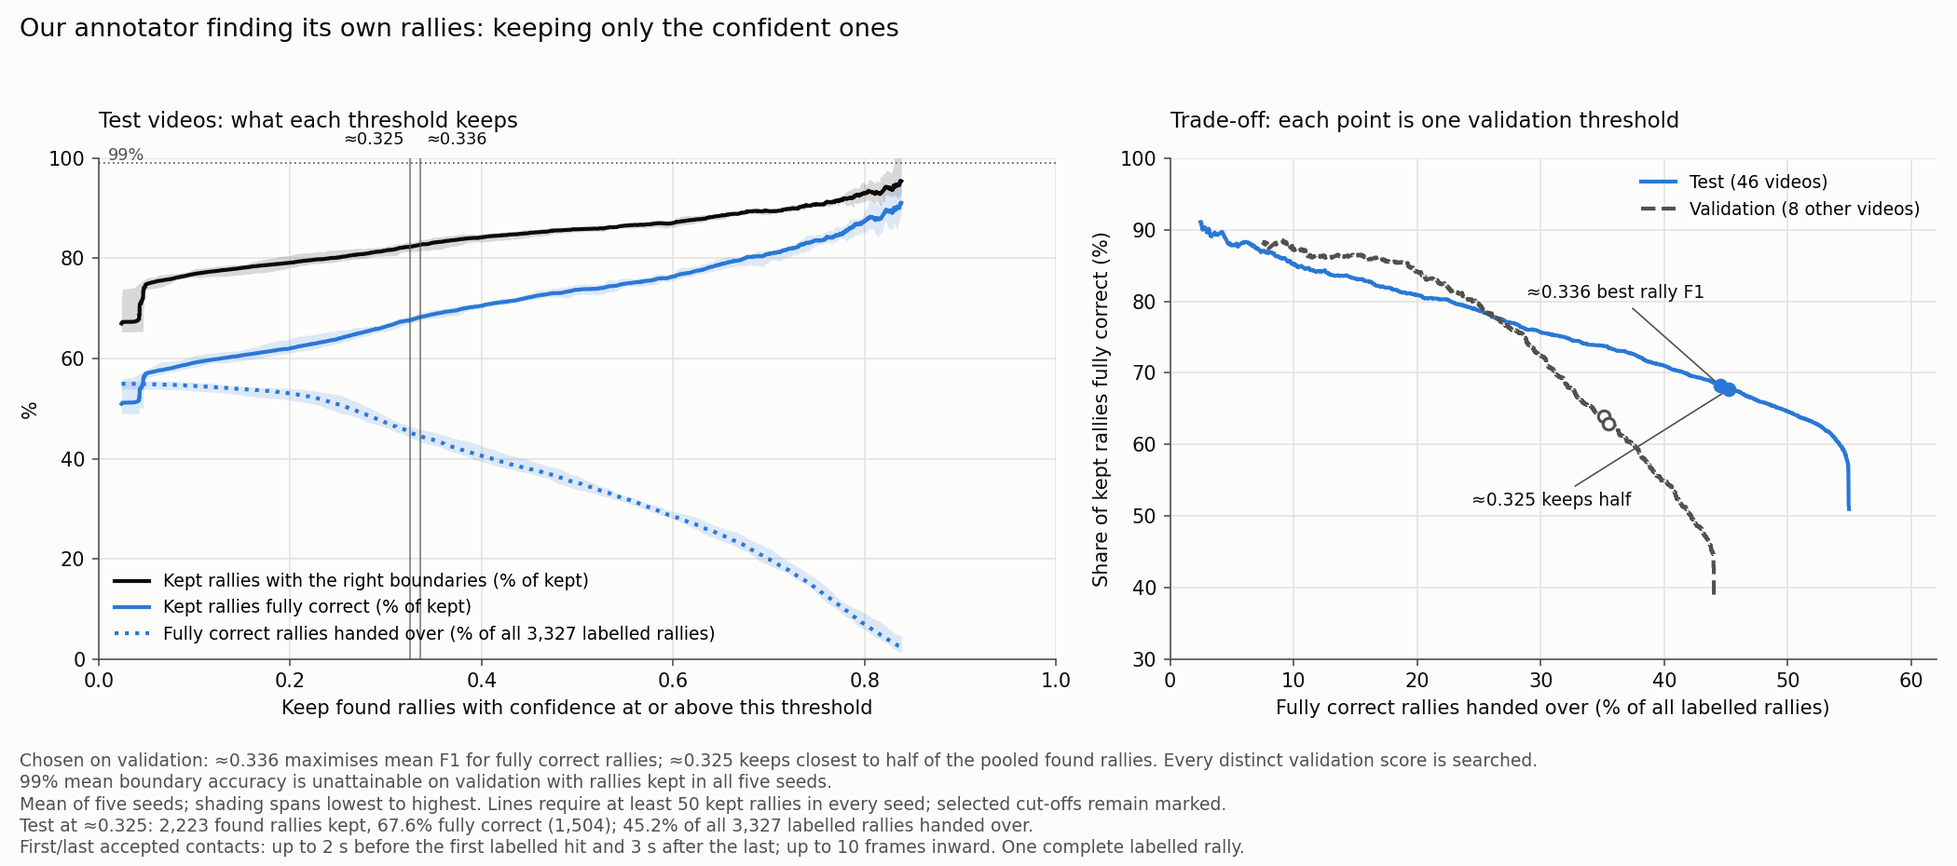
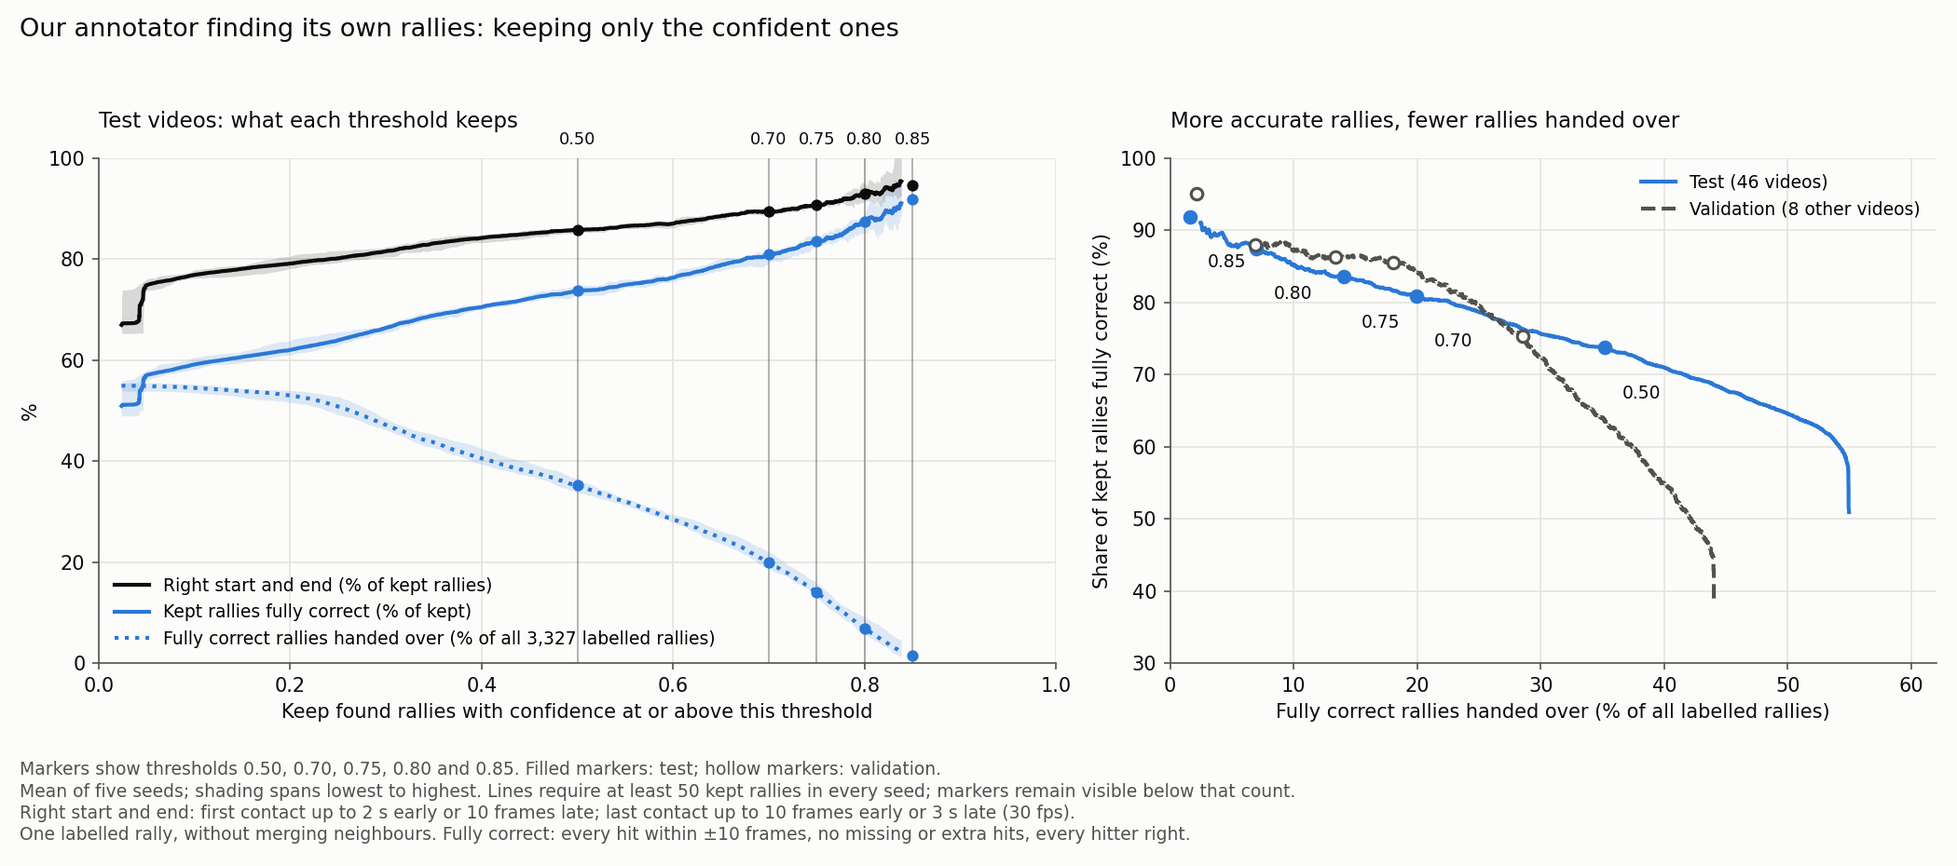
Make the confidence trade-off clearer in the benchmark report

diff --git a/experiments/annotator/monotrack_benchmark/writeup_scripts/make_figures.py b/experiments/annotator/monotrack_benchmark/writeup_scripts/make_figures.py
@@ -9,6 +9,7 @@ from __future__ import annotations
 import argparse
 import gzip
 import json
+import sys
 from dataclasses import dataclass
 from pathlib import Path
 
@@ -21,6 +22,12 @@ import pandas as pd
 from matplotlib.legend import Legend
 from matplotlib.legend_handler import HandlerTuple
 from matplotlib.lines import Line2D
+
+sys.path.insert(0, str(Path(__file__).resolve().parents[4]))
+
+from experiments.annotator.monotrack_benchmark.writeup_scripts.confidence_cutoffs import (
+    curve,
+)
 
 MONOTRACK_COLOUR = '#eb6834'
 ANNOTATOR_COLOUR = '#2a78d6'
@@ -298,15 +305,7 @@ def ladder_figure(summary: dict, out: Path, boundary_policy: dict[str, float | N
     plt.close(figure)
 
 
-CUTOFF_LABELS = {
-    'balanced': 'best rally F1',
-    'keep_half': 'keeps half',
-    'boundaries_99': '99% validation target',
-}
-# Label offsets in points, placed to keep each label clear of both curves.
-CUTOFF_LABEL_OFFSETS = {'balanced': (-8, 45), 'keep_half': (-50, -60), 'boundaries_99': (20, 8)}
-# Alignment of each cut-off's number above the left panel, so close cut-offs' numbers sit apart.
-CUTOFF_TOP_LABEL_ALIGN = {'balanced': 'left', 'keep_half': 'right', 'boundaries_99': 'center'}
+ILLUSTRATIVE_THRESHOLDS = (0.50, 0.70, 0.75, 0.80, 0.85)
 
 
 def seed_band(curves: pd.DataFrame, column: str) -> tuple[np.ndarray, np.ndarray, np.ndarray, np.ndarray]:
@@ -316,12 +315,6 @@ def seed_band(curves: pd.DataFrame, column: str) -> tuple[np.ndarray, np.ndarray
     # Above a high cut-off only a handful of rallies remain, so shares there are noise.
     table = table.where(kept.min(axis=1) >= MIN_KEPT, axis=0)
     return table.index.to_numpy(), table.mean(axis=1).to_numpy(), table.min(axis=1).to_numpy(), table.max(axis=1).to_numpy()
-
-
-def cutoff_text(value: float) -> str:
-    """Keep labels short and mark any displayed rounding explicitly."""
-    label = f'{value:.3f}'
-    return label if float(label) == value else f'≈{label}'
 
 
 def boundary_note(policy: dict[str, float | None]) -> str:
@@ -334,10 +327,10 @@ def boundary_note(policy: dict[str, float | None]) -> str:
 
 
 def cutoff_row(curves: pd.DataFrame, threshold: float) -> pd.Series:
-    """Read the actual selected score, keeping neighbouring attainable scores separate."""
+    """Read the exact threshold, keeping neighbouring scores separate."""
     selected = curves[curves['threshold'] == threshold]
     if selected.empty:
-        raise ValueError(f'selected validation cut-off {threshold!r} is absent from the curve')
+        raise ValueError(f'threshold {threshold!r} is absent from the curve')
     return selected.mean(numeric_only=True)
 
 
@@ -347,13 +340,19 @@ def confidence_figure(data: Path, out: Path) -> None:
     validation = pd.read_csv(data / 'validation_confidence_curve.csv.gz', float_precision='round_trip')
     with gzip.open(data / 'confidence_cutoffs.json.gz', 'rt') as stream:
         selection = json.load(stream)
-    cutoffs = selection['cutoffs']
-    available = {name: value for name, value in cutoffs.items() if value is not None}
+    test_found = []
+    for seed in SEEDS:
+        found = pd.read_csv(data / f'found_rallies_annotator_discovery_seed{seed}.csv.gz', float_precision='round_trip')
+        test_found.append(found.assign(seed=seed))
+    validation_found = pd.read_csv(data / 'validation_found_rallies.csv.gz', float_precision='round_trip')
+    # Round thresholds need exact counts; saved curves use distinct validation scores.
+    test_points = curve(pd.concat(test_found, ignore_index=True), 3327, ILLUSTRATIVE_THRESHOLDS)
+    validation_points = curve(validation_found, selection['validation_rallies'], ILLUSTRATIVE_THRESHOLDS)
     figure, (left, right) = plt.subplots(1, 2, figsize=(14, 6.2), facecolor=SURFACE,
                                          gridspec_kw={'width_ratios': (1.25, 1)})
     style_axes(left, 'both')
     lines = (
-        ('boundaries_right_share', 'Kept rallies with the right boundaries (% of kept)', TEXT, '-'),
+        ('boundaries_right_share', 'Right start and end (% of kept rallies)', TEXT, '-'),
         ('fully_correct_share', 'Kept rallies fully correct (% of kept)', ANNOTATOR_COLOUR, '-'),
         ('coverage', 'Fully correct rallies handed over (% of all 3,327 labelled rallies)', ANNOTATOR_COLOUR, ':'),
     )
@@ -361,14 +360,13 @@ def confidence_figure(data: Path, out: Path) -> None:
         thresholds, mean, low, high = seed_band(test, column)
         left.fill_between(thresholds, low, high, color=colour, alpha=0.15, linewidth=0)
         left.plot(thresholds, mean, color=colour, linestyle=style, linewidth=2, label=label)
-    left.axhline(99, color=MUTED, linewidth=0.8, linestyle=(0, (1, 2)))
-    left.text(0.01, 99.6, '99%', fontsize=8.5, color=MUTED)
-    for name, value in available.items():
-        left.axvline(value, color=MUTED, linewidth=1, linestyle='-', alpha=0.6)
-        align = 'right' if value > 0.9 else 'left' if value < 0.1 else CUTOFF_TOP_LABEL_ALIGN[name]
-        offset = 3 if align == 'left' else -3 if align == 'right' else 0
-        left.annotate(cutoff_text(value), (value, 100), xytext=(offset, 5), textcoords='offset points',
-                      ha=align, va='bottom', fontsize=8.5, color=TEXT)
+    for threshold in ILLUSTRATIVE_THRESHOLDS:
+        left.axvline(threshold, color=MUTED, linewidth=0.8, alpha=0.5)
+        left.annotate(f'{threshold:.2f}', (threshold, 100), xytext=(0, 5), textcoords='offset points',
+                      ha='center', va='bottom', fontsize=8.5, color=TEXT)
+        row = cutoff_row(test_points, threshold)
+        for column, _label, colour, _style in lines:
+            left.scatter(threshold, row[column], s=24, color=colour, zorder=4)
     left.set_xlim(0, 1)
     left.set_ylim(0, 100)
     left.set_xlabel('Keep found rallies with confidence at or above this threshold', color=TEXT)
@@ -379,56 +377,41 @@ def confidence_figure(data: Path, out: Path) -> None:
     style_axes(right, 'both')
     coverage_max = max(test['coverage'].max(), validation['coverage'].max())
     coverage_limit = min(100, max(62, coverage_max + 3))
-    for curves, label, colour, style in ((test, 'Test (46 videos)', ANNOTATOR_COLOUR, '-'),
-                                         (validation, 'Validation (8 other videos)', MUTED, '--')):
+    for curves, points, label, colour, style in (
+        (test, test_points, 'Test (46 videos)', ANNOTATOR_COLOUR, '-'),
+        (validation, validation_points, 'Validation (8 other videos)', MUTED, '--'),
+    ):
         _thresholds, coverage, _low, _high = seed_band(curves, 'coverage')
         _thresholds, share, _low, _high = seed_band(curves, 'fully_correct_share')
         right.plot(coverage, share, color=colour, linestyle=style, linewidth=2, label=label)
-        for name, value in available.items():
-            row = cutoff_row(curves, value)
-            # Validation points are hollow; cut-off labels belong to filled test points.
-            if pd.isna(row['fully_correct_share']):
-                continue
+        for threshold in ILLUSTRATIVE_THRESHOLDS:
+            row = cutoff_row(points, threshold)
+            # Validation points are hollow; labels belong to filled test points.
             right.scatter(row['coverage'], row['fully_correct_share'], s=36, zorder=4, linewidth=1.5,
                           color=colour if curves is test else SURFACE, edgecolor=colour)
             if curves is test:
-                offset_x, offset_y = CUTOFF_LABEL_OFFSETS[name]
-                align = 'right' if offset_x < 0 or row['coverage'] > 0.7 * coverage_limit else 'left'
-                offset_x = -abs(offset_x) if align == 'right' else offset_x
-                right.annotate(f'{cutoff_text(value)} {CUTOFF_LABELS[name]}', (row['coverage'], row['fully_correct_share']),
-                               xytext=(offset_x, offset_y), ha=align, textcoords='offset points', fontsize=9, color=TEXT,
-                               arrowprops={'arrowstyle': '-', 'color': MUTED, 'lw': 0.8})
+                right.annotate(f'{threshold:.2f}', (row['coverage'], row['fully_correct_share']),
+                               xytext=(9, -26), textcoords='offset points', fontsize=9, color=TEXT)
     precision_min = min(test['fully_correct_share'].min(), validation['fully_correct_share'].min())
     right.set_xlim(0, coverage_limit)
     right.set_ylim(max(0, min(30, precision_min - 3)), 100)
     right.set_xlabel('Fully correct rallies handed over (% of all labelled rallies)', color=TEXT)
     right.set_ylabel('Share of kept rallies fully correct (%)', color=TEXT)
-    right.set_title('Trade-off: each point is one validation threshold', fontsize=11, color=TEXT, loc='left', pad=16)
+    right.set_title('More accurate rallies, fewer rallies handed over', fontsize=11, color=TEXT, loc='left', pad=16)
     right.legend(loc='upper right', frameon=False, fontsize=9)
     figure.suptitle('Our annotator finding its own rallies: keeping only the confident ones', fontsize=13, color=TEXT,
                     x=0.01, ha='left')
-    boundary_cutoff = cutoffs['boundaries_99']
-    if boundary_cutoff is None:
-        target_note = '99% mean boundary accuracy is unattainable on validation with rallies kept in all five seeds.'
-    else:
-        boundary_validation = selection['validation']['boundaries_99']
-        target_note = (f'{cutoff_text(boundary_cutoff)} is the lowest cut-off reaching 99% mean boundary accuracy; '
-                       f'validation retains {boundary_validation["kept_min"]:.0f}–'
-                       f'{boundary_validation["kept_max"]:.0f} rallies per seed.')
-    figure.text(0.01, 0.115, f'Chosen on validation: {cutoff_text(cutoffs["balanced"])} maximises mean F1 for fully correct rallies; '
-                f'{cutoff_text(cutoffs["keep_half"])} keeps closest to half of the pooled found rallies. '
-                'Every distinct validation score is searched.', fontsize=9, color=MUTED)
-    figure.text(0.01, 0.09, target_note, fontsize=9, color=MUTED)
-    figure.text(0.01, 0.065, f'Mean of five seeds; shading spans lowest to highest. Lines require at least '
-                f'{MIN_KEPT} kept rallies in every seed; selected cut-offs remain marked.', fontsize=9, color=MUTED)
-    example = cutoff_row(test, cutoffs['keep_half'])
-    share = example['fully_correct_share']
-    precision_text = f'{share:.1f}%' if pd.notna(share) else 'undefined (no rallies kept)'
-    figure.text(0.01, 0.04, f'Test at {cutoff_text(cutoffs["keep_half"])}: {example["kept"]:,.0f} found rallies kept, '
-                f'{precision_text} fully correct ({example["fully_correct_kept"]:,.0f}); '
-                f'{example["coverage"]:.1f}% of all 3,327 labelled rallies handed over.', fontsize=9, color=MUTED)
-    figure.text(0.01, 0.015, boundary_note(selection['boundary_policy']), fontsize=9, color=MUTED)
-    figure.tight_layout(rect=(0, 0.145, 1, 0.95))
+    figure.text(0.01, 0.105, 'Markers show thresholds 0.50, 0.70, 0.75, 0.80 and 0.85. '
+                'Filled markers: test; hollow markers: validation.', fontsize=9, color=MUTED)
+    figure.text(0.01, 0.08, f'Mean of five seeds; shading spans lowest to highest. Lines require at least '
+                f'{MIN_KEPT} kept rallies in every seed; markers remain visible below that count.', fontsize=9, color=MUTED)
+    before = selection['boundary_policy']['before_seconds']
+    after = selection['boundary_policy']['after_seconds']
+    figure.text(0.01, 0.055, f'Right start and end: first contact up to {before:g} s early or 10 frames late; '
+                f'last contact up to 10 frames early or {after:g} s late (30 fps).', fontsize=9, color=MUTED)
+    figure.text(0.01, 0.03, 'One labelled rally, without merging neighbours. Fully correct: every hit within ±10 frames, '
+                'no missing or extra hits, every hitter right.', fontsize=9, color=MUTED)
+    figure.tight_layout(rect=(0, 0.14, 1, 0.95))
     figure.savefig(out / 'fig6_confidence.png', dpi=150, facecolor=SURFACE)
     plt.close(figure)
 

diff --git a/experiments/annotator/monotrack_benchmark/annotator_monotrack_own_weights_compared_writeup_v7.md b/experiments/annotator/monotrack_benchmark/annotator_monotrack_own_weights_compared_writeup_v7.md
@@ -40,12 +40,9 @@ rule settings tuned on the same 32 videos.
   Correct-player F1 is 94.7% for ours and 95.8% for MonoTrack.
 - **Our annotator can also find the rallies itself.** MonoTrack's released code
   needs each rally cut out beforehand. Working from the whole video, ours gets
-  55.0% of labelled rallies fully correct under the common rule without maximum
-  context limits. A separate confidence survey checks the tighter 2/3-second
-  boundary definition. At its validation-selected threshold of about 0.325,
-  2,223 of about 3,663 found rallies remain. Of those, 82.3% have correct
-  first/last contact boundaries and 67.6% are fully correct: 1,504 rallies,
-  or 45.2% of all labelled rallies.
+  55.0% of labelled rallies fully correct without confidence filtering. For example, at a
+  confidence threshold of 0.75, it keeps about 560 found rallies per seed:
+  90.8% have the right start and end, and 83.5% are fully correct (Table 3).
 - **Both court detectors place the court close enough that swapping courts
   barely changes the scores.** Median corner error is 3.8 px for ours and
   6.5 px for MonoTrack (Figure 2). Swapping courts moves every score by
@@ -101,11 +98,11 @@ The trees-off rows are deterministic runs.
   rally is fully correct when it covers exactly one labelled rally, its hits
   match that rally's hits one to one with none left over, and every hitter is
   right. Boundaries are the first and last accepted predicted contacts.
-  These are the selected contacts assigned to that rally within its saved
-  window; the window's start/end positions are ignored in this assessment.
-  There is no maximum outward context limit. Either contact endpoint may
-  fall inward by the same allowance as contact timing. The finite-boundary
-  confidence surveys below apply additional 1/1 or 2/3 limits.
+  These are the contacts assigned to the rally within its selected window;
+  the window's start and end are not scored. The first contact may be any
+  amount early or up to 10 frames late; the last may be up to 10 frames early
+  or any amount late. The confidence section below limits how early the first
+  contact and how late the last contact may be.
 - **The 95% intervals** come from 10,000 paired bootstrap resamples of the 46
   videos. Each trained system's counts are averaged over its five seeds
   before resampling.
@@ -142,23 +139,19 @@ courts.
 With no rally bounds, our annotator must decide where each rally starts and
 ends. Figure 5 breaks its rally results into three nested steps:
 
-1. **Boundaries right:** one found rally covers exactly one labelled rally,
-   without merging neighbours or covering only part of a rally. There is no
-   maximum outward context limit. Either edge may fall up to 10 frames inside
-   the first or last labelled hit, matching the hit-timing tolerance.
+1. **Boundaries right:** the first and last accepted contacts cover exactly one
+   labelled rally, without merging neighbours. The first contact may be any
+   amount early or up to 10 frames late; the last may be up to 10 frames early
+   or any amount late.
 2. **Hits right:** that found rally also holds every labelled hit and no extra
    hits. Hitters are not checked.
 3. **Fully correct:** every hitter is right as well.
 
 The labels mark racket contacts, not the physical start of play or the shuttle's
-landing. The annotator retains the chosen discovery windows, with small
-edge extensions subject to neighbour and contact-ownership checks. Training
-and headline assessment allow unlimited outward context.
-Supplied rally bounds stay fixed. Inside a chosen span, the rally model's contact
-list is final. Outside every chosen span, all detector contacts remain and count
-towards whole-video hit scores. Dataset export separately anchors clips to the
-first and last accepted contacts and adds 2 seconds before and 3 after; those
-clips may overlap and do not change the predictions scored here.
+landing. These scores assess the accepted contacts. Exported clips add 2 seconds
+before the first contact and 3 seconds after the last to give viewing context.
+The [annotator guide](../../../docs/annotator/how_it_works.md) explains how
+windows, contacts and exported clips fit together.
 
 ![Bars showing boundaries right, hits right and fully correct for each system](writeup_figures/v7/fig5_rally_ladder.png)
 
@@ -183,51 +176,49 @@ Two sources of errors are:
 
 ### Keeping only the confident rallies
 
-Each found rally gets a confidence score from the review tree. Raising the
-threshold keeps fewer rallies without changing their predictions.
+Each found rally gets a confidence score, so you can trade recall for less
+manual review. Raising the threshold keeps fewer rallies without changing
+their predictions.
 
-About 418 detections per seed have no accepted contacts and confidence below
-0.05. Removing them explains the early step in Figure 6; neither reported
-threshold keeps any of them.
+Table 3. Indicative performance on the test set, averaged over five seeds.
+Counts are rounded to whole rallies; both percentages describe the rallies kept.
 
-Boundary correctness uses the first and last accepted predicted contacts.
-Under the 2/3 rule, the first may be up to 2 seconds before the first labelled
-contact and the last up to 3 seconds after the last labelled contact. Either
-endpoint may fall inward by 10 frames. The interval must cover one complete
-labelled rally without merging neighbours. Interior contact errors and player
-assignments do not affect this boundary-only measure. Appendix B also gives
-the 1/1-second results and the comparison with capped discovery. Dataset clip padding is
-separate from these measurements.
+| Confidence threshold | Found rallies kept | Right start and end | Fully correct rallies |
+|---:|---:|---:|---:|
+| 0.50 | 1,589 | 85.8% | 73.7% |
+| 0.70 | 821 | 89.4% | 80.9% |
+| 0.75 | 560 | 90.8% | 83.5% |
+| 0.80 | 265 | 93.0% | 87.5% |
+| 0.85 | 58 | 94.5% | 91.8% |
 
-All 3,333 distinct validation confidence scores were checked. The selected
-thresholds are about 0.325 to retain half the validation detections and 0.336 to
-maximise mean retrieval F1 for fully correct rallies. No threshold reaches 99%
-mean boundary accuracy while retaining detections in every seed.
+“Right start and end” checks the first and last accepted contacts against the
+labelled rally:
 
-Table 3. Test results at validation-selected thresholds, five-seed means.
-Counts and percentages are averaged separately. Each seed starts with about
-3,663 found rallies after excluded rallies are removed (Appendix G). The two
-share columns use retained detections as their denominator. Fully correct
-means every contact and hitter is right, with no extras; its coverage uses
-all 3,327 labelled test rallies. Exact thresholds are in the
-[results file](benchmark_results/discovery_context/surveys/no_max/2_3/confidence_cutoffs.json.gz).
+- The first contact may be up to **2 seconds early or 10 frames late**.
+- The last contact may be up to **10 frames early or 3 seconds late**.
 
-| Threshold | Rallies kept | Share fully correct | Share with the right start and end | Kept rallies with the right start and end | Fully correct rallies (share of all labelled rallies) |
-|---|---:|---:|---:|---:|---:|
-| ≈0.325 | 2,223 | 67.6% | 82.3% | 1,829 | 1,504 (45.2%) |
-| ≈0.336 | 2,170 | 68.2% | 82.7% | 1,794 | 1,481 (44.5%) |
+Frames are measured at 30 fps. These buffers match our dataset format and give
+useful context. A found rally must cover one labelled rally without merging
+neighbours. Errors in the contacts or hitters between its endpoints do not
+affect this boundary-only score. “Fully correct” also requires every contact
+and hitter to be right, with no missing or extra contacts.
 
-Before filtering, the common rule without maximum context limits gives 55.0%
-fully correct test rallies and 44.0% on all validation rallies. Appendix G
-reports the 354-rally unflagged validation view separately.
+Before filtering, 55.0% of all labelled test rallies are fully correct. On
+validation, that is 44.0% with flaw-marked rallies included and 62.9% with them
+excluded. Appendices B and G give the validation results and label exclusions;
+Appendix B also gives the validation-selected thresholds.
 
 ![Confidence threshold against kept-rally shares, and the trade-off between accuracy and rallies handed over](writeup_figures/v7/fig6_confidence.png)
 
-Figure 6. Confidence filtering of the no-max discovery predictions. Boundary-only
-accuracy uses the first/last contact endpoints and the 2/3 rule. Left: test
-results at each threshold. Right: fully correct share against coverage of
-all labelled rallies, for test and validation. Lines are five-seed means;
-shading spans the lowest to highest seed.
+Figure 6. Confidence filtering with the same boundary allowances as Table 3.
+Left: test results as the threshold rises. Right: the share of kept rallies
+that are fully correct against the share of all labelled rallies handed over
+fully correct, for test and validation. The marked thresholds match Table 3.
+Lines are five-seed means; shading spans the lowest to highest seed.
+
+About 418 detections per seed have no accepted contacts and confidence below
+0.05. Removing them explains the early step in Figure 6. All five thresholds
+in Table 3 remove them.
 
 ## Court detection
 
@@ -552,10 +543,26 @@ retain the exact values.
 
 **Confidence thresholds.** Both configurations were surveyed across their
 five saved runs. All 3,339 distinct 5/5 confidence scores and 3,333 no-max
-scores were checked on validation. Thresholds use validation only. Table 3
-reports the no-max baseline.
+scores were checked on validation. The thresholds below are selected on
+validation and then applied to test.
 
-Table B3. Boundary-only accuracy at thresholds retaining about half the
+For no-max, a threshold of about 0.325 retains half the validation detections;
+about 0.336 maximises mean retrieval F1 for fully correct rallies.
+No threshold reaches 99% mean boundary accuracy while retaining detections
+in every seed. The [results file](benchmark_results/discovery_context/surveys/no_max/2_3/confidence_cutoffs.json.gz)
+gives the exact thresholds and validation outcomes.
+
+Table B3. No-max test results at the two validation-selected thresholds, using
+the 2-second early / 3-second late boundary allowances. Counts and percentages
+are five-seed means. The first two percentages describe retained detections;
+the last uses all 3,327 labelled test rallies.
+
+| Threshold | Found rallies kept | Right start and end | Fully correct rallies | Fully correct count | Share of all labelled rallies fully correct |
+|---|---:|---:|---:|---:|---:|
+| ≈0.325 | 2,223 | 82.3% | 67.6% | 1,504 | 45.2% |
+| ≈0.336 | 2,170 | 82.7% | 68.2% | 1,481 | 44.5% |
+
+Table B4. Boundary-only accuracy at thresholds retaining about half the
 validation detections: 0.343045 for 5/5 and 0.325110 for no-max, both keeping
 377 validation detections per seed. Accuracy uses retained detections as its
 denominator. Both rules measure the first and last accepted contacts, allow
@@ -576,7 +583,7 @@ gives 91.96% test boundary accuracy for no-max versus 90.66% for 5/5, with
 about 390 detections kept by each. At 25%, the figures are 87.79% and 87.19%.
 These small differences do not establish a clear overall winner.
 
-Table B4. Boundary-only test accuracy under 2/3 limits at matched validation
+Table B5. Boundary-only test accuracy under 2/3 limits at matched validation
 retention targets. Each threshold is selected on validation and then fixed
 for test. Counts and percentages are five-seed means.
 
